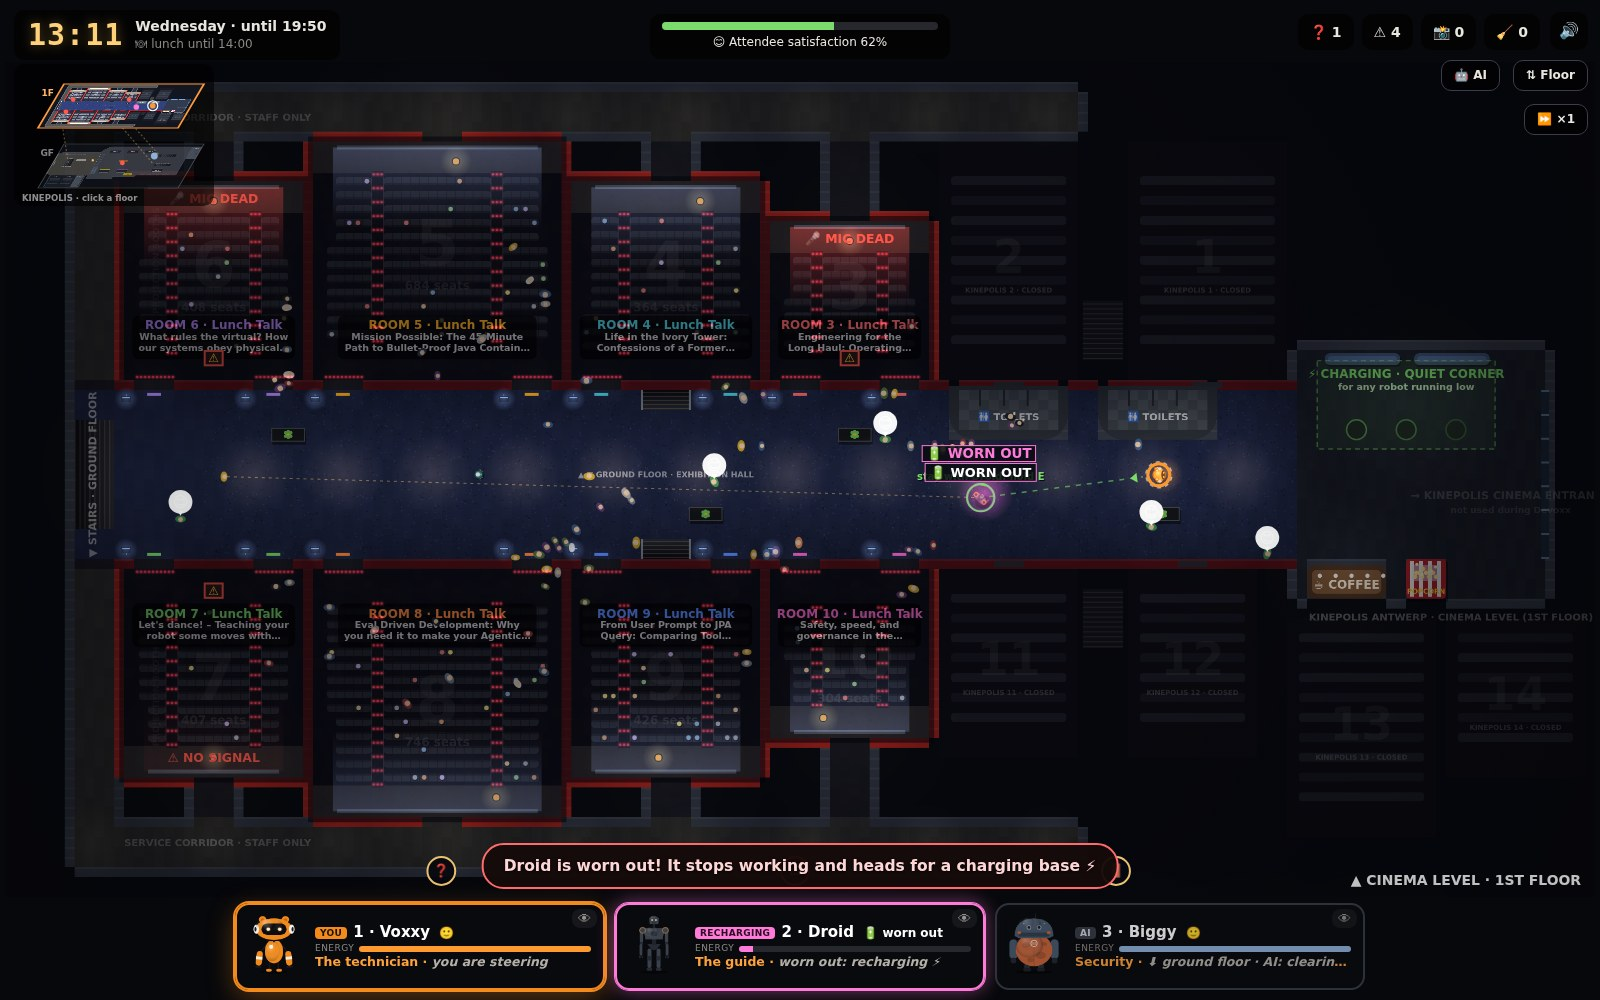
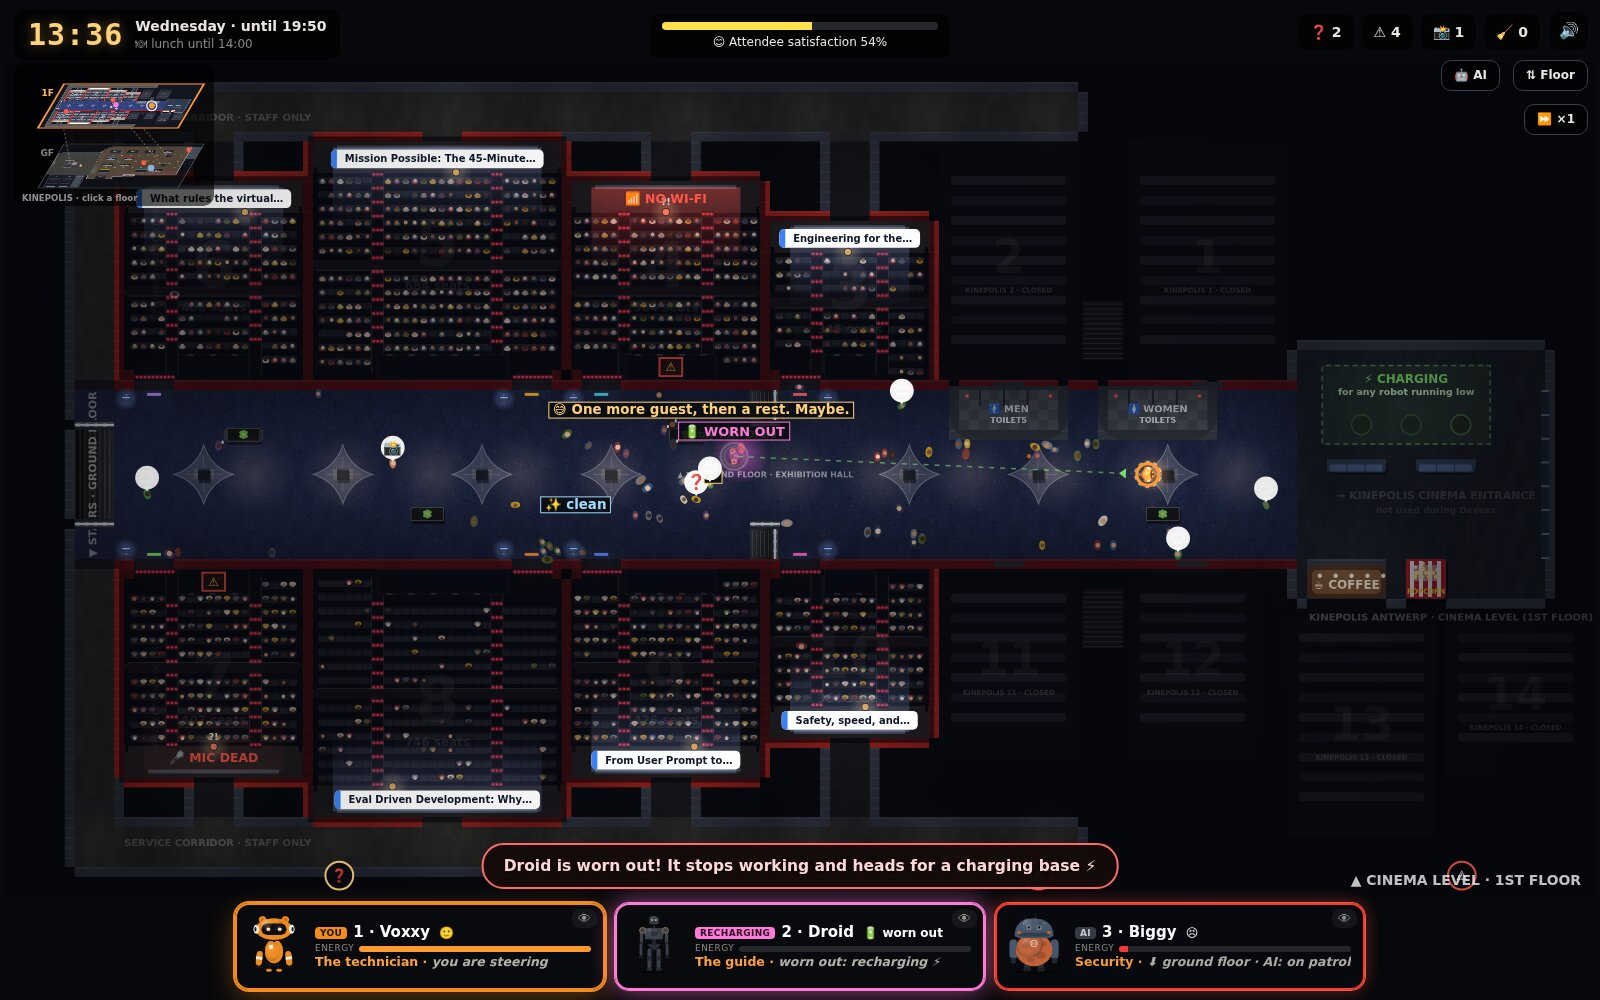
Update README screenshot and GIF, rename README title
Claude-Session: https://claude.ai/code/session_01SYyu8365nSpVh3vUfaoPk9

diff --git a/README.md b/README.md
@@ -1,8 +1,8 @@
-# Overclocked
+# Overclocked - a Devoxx robot game
 
 > **The robots can do their jobs. They just don't know when to stop. You're the only one who noticed.**
 
-![Gameplay: Droid runs low on energy; the player brings Voxxy over and holds E until Droid recovers](docs/overclocked.gif)
+![Gameplay: a Monday at Devoxx, the player steers Voxxy while Droid and Biggy work on their own](docs/overclocked.gif)
 
 **Overclocked** is a browser game created for [The Robot Games](https://game.devoxx.be), a Devoxx Belgium competition. It takes place over a full Devoxx week, on both floors of the Kinepolis Antwerp.
 
